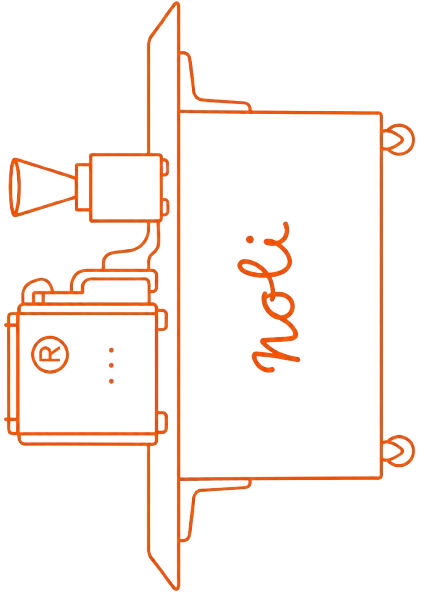
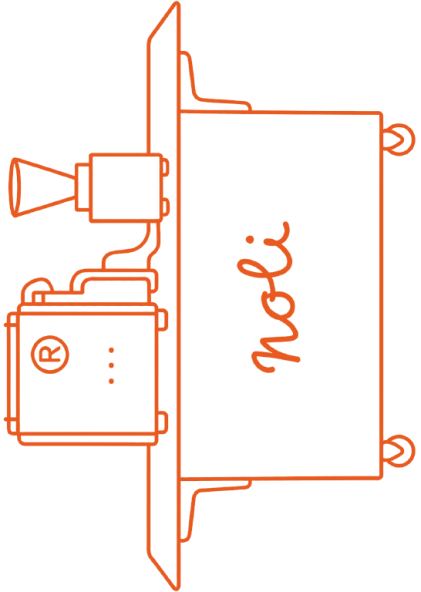
fix thumb mobile

diff --git a/src/components/ScrollCart.tsx b/src/components/ScrollCart.tsx
@@ -20,12 +20,21 @@ export default function ScrollCart() {
     return window.innerHeight - padding * 2 - cartSize;
   };
 
+  const isMobile = () => window.innerWidth < 1024;
+
   const updatePosition = useCallback(() => {
     if (!cartRef.current) return;
     const pct = getScrollPct();
     const trackHeight = getTrackHeight();
     const y = 16 + pct * trackHeight;
     cartRef.current.style.transform = `translateY(${y}px)`;
+
+    // Hide on mobile when in first viewport (would collide with burger menu)
+    if (isMobile()) {
+      cartRef.current.style.opacity = window.scrollY > window.innerHeight ? "1" : "0";
+    } else {
+      cartRef.current.style.opacity = "1";
+    }
   }, []);
 
   useEffect(() => {
@@ -88,7 +97,7 @@ export default function ScrollCart() {
   return (
     <div
       ref={cartRef}
-      className="fixed top-0 right-2 z-[9999] will-change-transform"
+      className="fixed top-0 right-2 z-[9999] will-change-transform transition-opacity duration-300"
       style={{ cursor: "grab" }}
     >
       <img

diff --git a/src/components/Header.tsx b/src/components/Header.tsx
@@ -49,8 +49,8 @@ export default function Header() {
           >
             <span
               aria-hidden="true"
-              className={`block w-32 h-12 sm:w-36 sm:h-14 lg:w-40 lg:h-16 transition-colors duration-500 ${
-                scrolled ? "bg-accent" : "bg-warm-white"
+              className={`block w-32 h-12 sm:w-36 sm:h-14 lg:w-40 lg:h-16 transition-colors duration-500 bg-accent ${
+                !scrolled ? "lg:bg-warm-white" : ""
               }`}
               style={{
                 WebkitMaskImage: "url(/assets/logo-mark.png)",